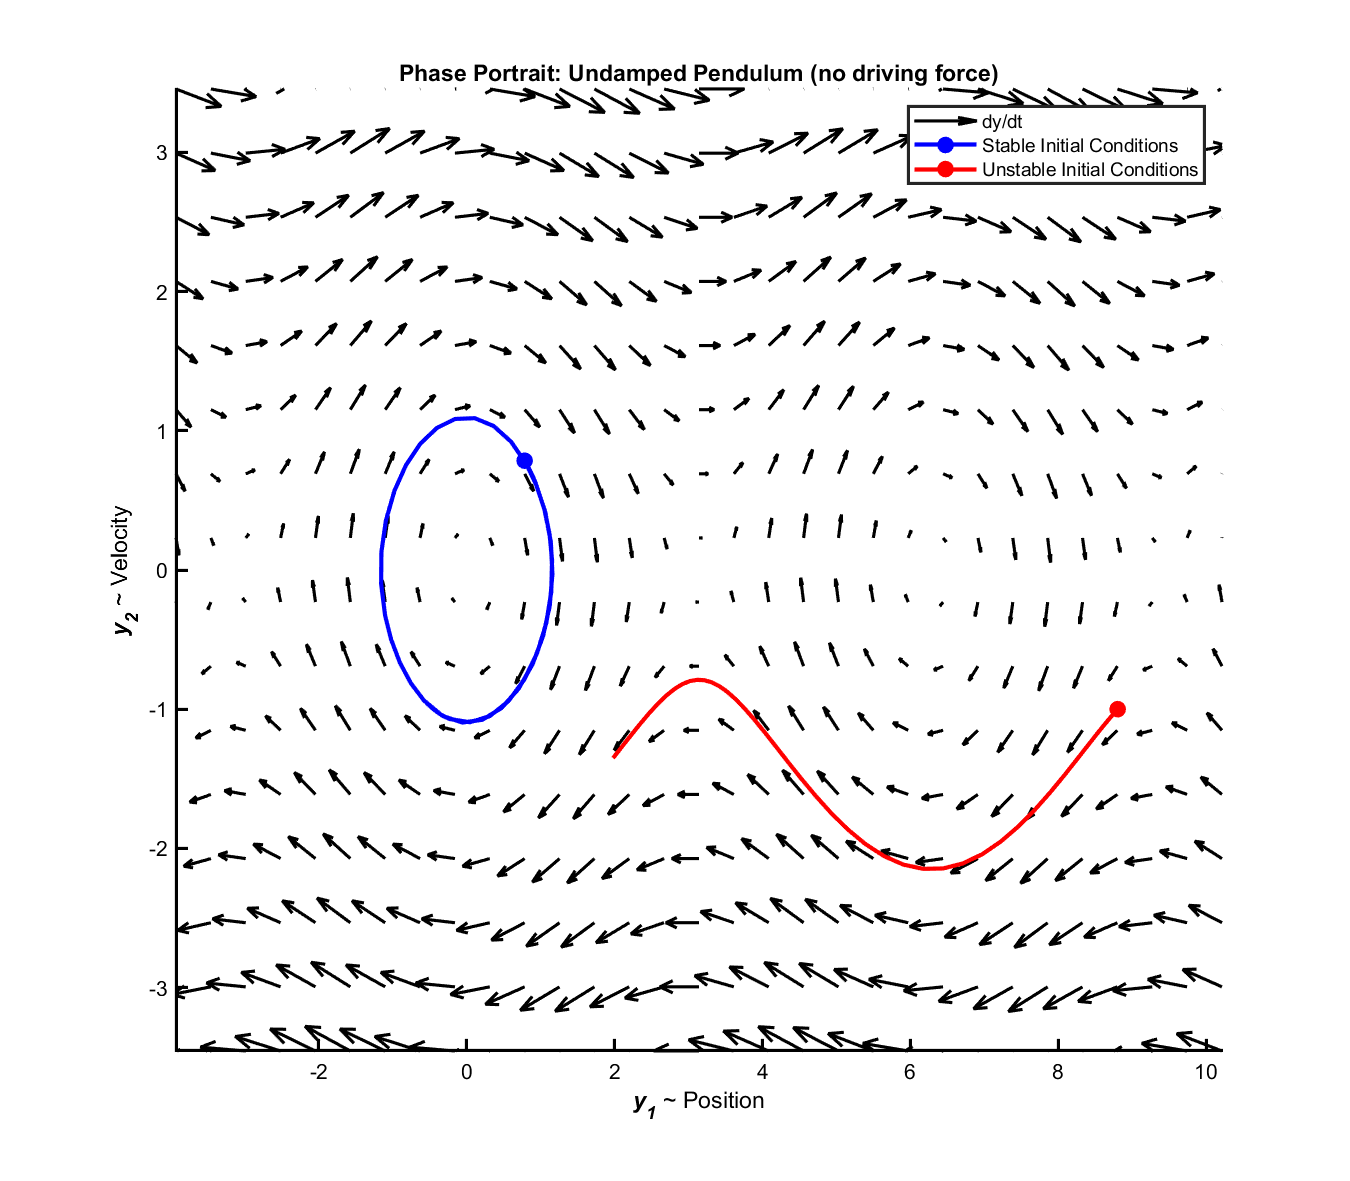
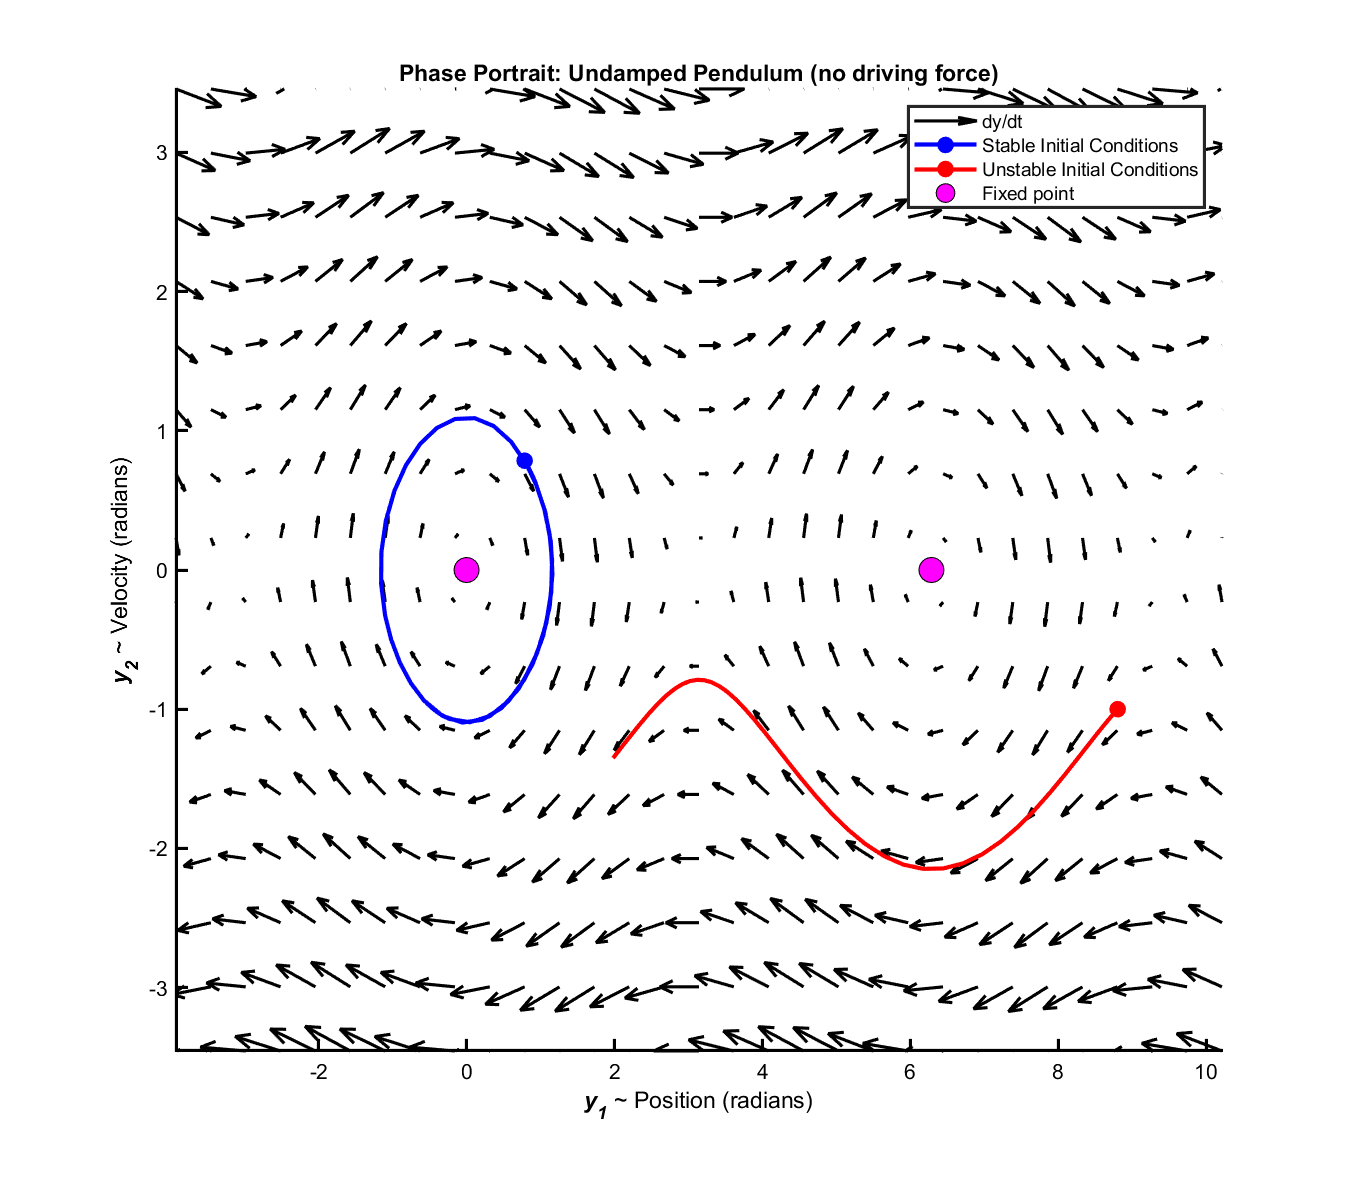
Add examples

diff --git a/main.m b/main.m
@@ -1,10 +1,11 @@
 %MAIN Contains code to organize the rest of the example repo
 
+%% Undamped Pendulum: Example 1
 clear; clc;
-
-y = initializeGrid(); % Initialize values for grid of phase portrait
+angular_position = linspace(-1.1*pi,1.1*pi,16);
+angular_velocity = linspace(-1.1*pi,1.1*pi,16);
+y = initializeGrid(angular_position,angular_velocity); % Initialize values for grid of phase portrait
 dy = undamped_pendulum(y);
-
 
 fig = figure(...
    'Name','Phase Portrait Undamped Pendulum',...
@@ -19,8 +20,8 @@ ax = axes(fig,...
 quiver(ax,y(1,:),y(2,:),dy(1,:),dy(2,:),'k',...
    'LineWidth',1.5,...
    'DisplayName','dy/dt');
-xlabel(ax,'\bf\ity_1\rm ~ Position','FontName','Arial','Color','k');
-ylabel(ax,'\bf\ity_2\rm ~ Velocity','FontName','Arial','Color','k');
+xlabel(ax,'\bf\ity_1\rm ~ Position (radians)','FontName','Arial','Color','k');
+ylabel(ax,'\bf\ity_2\rm ~ Velocity (radians)','FontName','Arial','Color','k');
 title(ax,'Phase Portrait: Undamped Pendulum (no driving force)',...
    'FontName','Arial','Color','k');
 
@@ -36,8 +37,66 @@ plot(ax,ys(:,1),ys(:,2),...
    'DisplayName','Stable Initial Conditions');
 
 % Solve system using ODE45 with different initial conditions
-RED_INITIAL_CONDITIONS = [8.8; -1]; % [position, velocity]
+RED_INITIAL_CONDITIONS = [-1; -1]; % [position, velocity]
 [~,ys] = ode45(@(t,y)undamped_pendulum(y),[0 5],RED_INITIAL_CONDITIONS);
+plot(ax,ys(:,1),ys(:,2),...
+   'Color','r',...
+   'LineWidth',2,...
+   'MarkerIndices',1,...
+   'Marker','o',...
+   'MarkerFaceColor','r',...
+   'DisplayName','Also Stable Initial Conditions');
+
+line(ax,[0,2*pi],[0,0],'LineStyle','none',...
+   'Marker','o','MarkerFaceColor','m','MarkerEdgeColor','k',...
+   'DisplayName','Fixed point','MarkerSize',12);
+
+legend(ax,'TextColor','k','FontName','Arial');
+
+saveas(fig,'Undamped Pendulum Example 1.png');
+savefig(fig,'Undamped Pendulum Example 1.fig');
+pause(0.5);
+delete(fig);
+
+%% Undamped Pendulum: Example 2 
+clear; clc;
+angular_position = linspace(-1.1*pi,3.1*pi,16);
+angular_velocity = linspace(-1.1*pi,1.1*pi,16);
+y = initializeGrid(angular_position,angular_velocity); % Initialize values for grid of phase portrait
+dy = undamped_pendulum(y);
+
+fig = figure(...
+   'Name','Phase Portrait Undamped Pendulum',...
+   'Color','w',...
+   'NumberTitle','off',...
+   'Units','Normalized',...
+   'Position',[0.25 0.2 0.45 0.7]);
+ax = axes(fig,...
+   'XColor','k','YColor','k',...
+   'LineWidth',1.5,'FontName','Arial','NextPlot','add',...
+   'XLim',[min(y(1,:)), max(y(1,:))],'YLim',[min(y(2,:)),max(y(2,:))]);
+quiver(ax,y(1,:),y(2,:),dy(1,:),dy(2,:),'k',...
+   'LineWidth',1.5,...
+   'DisplayName','dy/dt');
+xlabel(ax,'\bf\ity_1\rm ~ Position (radians)','FontName','Arial','Color','k');
+ylabel(ax,'\bf\ity_2\rm ~ Velocity (radians)','FontName','Arial','Color','k');
+title(ax,'Phase Portrait: Undamped Pendulum (no driving force)',...
+   'FontName','Arial','Color','k');
+
+% Solve system using ODE45 with different initial conditions
+BLUE_INITIAL_CONDITIONS = [pi/4; pi/4]; % [position, velocity]
+[~,ys] = ode45(@(t,y)undamped_pendulum(y),[0 10],BLUE_INITIAL_CONDITIONS);
+plot(ax,ys(:,1),ys(:,2),...
+   'Color','b',...
+   'LineWidth',2,...
+   'MarkerIndices',1,...
+   'Marker','o',...
+   'MarkerFaceColor','b',...
+   'DisplayName','Stable Initial Conditions');
+
+% Solve system using ODE45 with different initial conditions
+RED_INITIAL_CONDITIONS = [-1.65; 1.45]; % [position, velocity]
+[~,ys] = ode45(@(t,y)undamped_pendulum(y),[0 20],RED_INITIAL_CONDITIONS);
 plot(ax,ys(:,1),ys(:,2),...
    'Color','r',...
    'LineWidth',2,...
@@ -46,9 +105,61 @@ plot(ax,ys(:,1),ys(:,2),...
    'MarkerFaceColor','r',...
    'DisplayName','Unstable Initial Conditions');
 
+line(ax,[0,2*pi],[0,0],'LineStyle','none',...
+   'Marker','o','MarkerFaceColor','m','MarkerEdgeColor','k',...
+   'DisplayName','Fixed point','MarkerSize',12);
+
 legend(ax,'TextColor','k','FontName','Arial');
 
-saveas(fig,'Undamped Pendulum Example.png');
-savefig(fig,'Undamped Pendulum Example.fig');
+saveas(fig,'Undamped Pendulum Example 2.png');
+savefig(fig,'Undamped Pendulum Example 2.fig');
+pause(0.5);
+delete(fig);
+
+
+%% Stable Node example 
+clear; clc;
+angular_position = linspace(-1.1*pi,1.1*pi,16);
+angular_velocity = linspace(-1.1*pi,1.1*pi,16);
+y = initializeGrid(angular_position,angular_velocity); % Initialize values for grid of phase portrait
+dy = stable_attractor(y);
+
+fig = figure(...
+   'Name','Phase Portrait Stable Node',...
+   'Color','w',...
+   'NumberTitle','off',...
+   'Units','Normalized',...
+   'Position',[0.25 0.2 0.45 0.7]);
+ax = axes(fig,...
+   'XColor','k','YColor','k',...
+   'LineWidth',1.5,'FontName','Arial','NextPlot','add',...
+   'XLim',[min(y(1,:)), max(y(1,:))],'YLim',[min(y(2,:)),max(y(2,:))]);
+quiver(ax,y(1,:),y(2,:),dy(1,:),dy(2,:),'k',...
+   'LineWidth',1.5,...
+   'DisplayName','dy/dt');
+xlabel(ax,'\bf\ity_1\rm ~ Position (radians)','FontName','Arial','Color','k');
+ylabel(ax,'\bf\ity_2\rm ~ Velocity (radians)','FontName','Arial','Color','k');
+title(ax,'Phase Portrait: Undamped Pendulum (no driving force)',...
+   'FontName','Arial','Color','k');
+
+% Solve system using ODE45 with different initial conditions
+BLUE_INITIAL_CONDITIONS = [pi/4; pi/4]; % [position, velocity]
+[~,ys] = ode45(@(t,y)undamped_pendulum(y),[0 10],BLUE_INITIAL_CONDITIONS);
+plot(ax,ys(:,1),ys(:,2),...
+   'Color','b',...
+   'LineWidth',2,...
+   'MarkerIndices',1,...
+   'Marker','o',...
+   'MarkerFaceColor','b',...
+   'DisplayName','Initial Conditions No Longer Matter');
+
+line(ax,0,0,'LineStyle','none',...
+   'Marker','o','MarkerFaceColor','m','MarkerEdgeColor','k',...
+   'DisplayName','Fixed point','MarkerSize',12);
+
+legend(ax,'TextColor','k','FontName','Arial');
+
+saveas(fig,'Stable Node Example.png');
+savefig(fig,'Stable Node Example.fig');
 pause(0.5);
 delete(fig);

diff --git a/stable_attractor.m b/stable_attractor.m
@@ -1,0 +1,22 @@
+function y = stable_attractor(t,y)
+%STABLE_ATTRACTOR System of equations for ODEs that converge to stable fixed point
+%
+%  y = stable_attractor(t,y);
+%
+% Inputs
+%  t - Current timestep
+%  y - Current value
+%
+% Output
+%  y - Updated angle and velocity
+
+if nargin == 1
+   y = t;
+end
+
+C = [-0.5 0.0 ;...
+     0.0  -0.25];
+
+y = C * y;
+
+end
